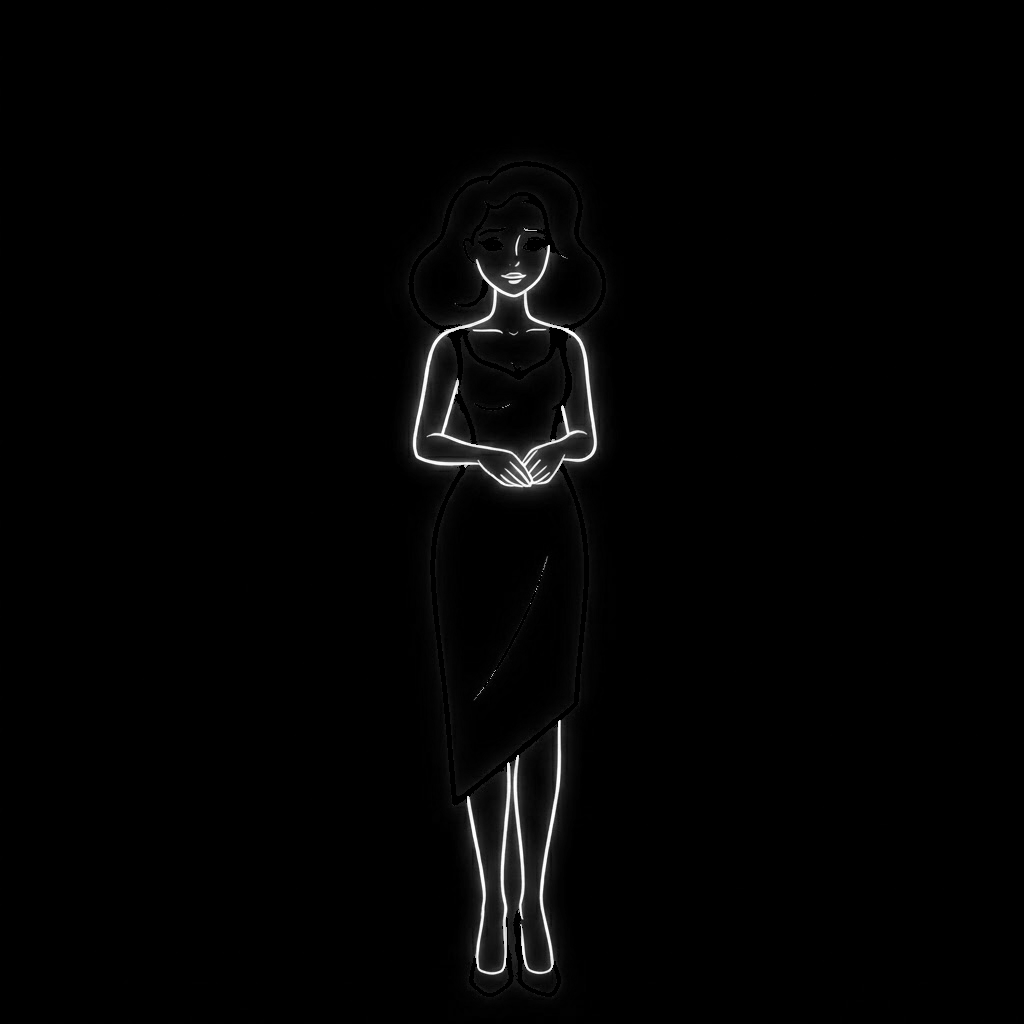
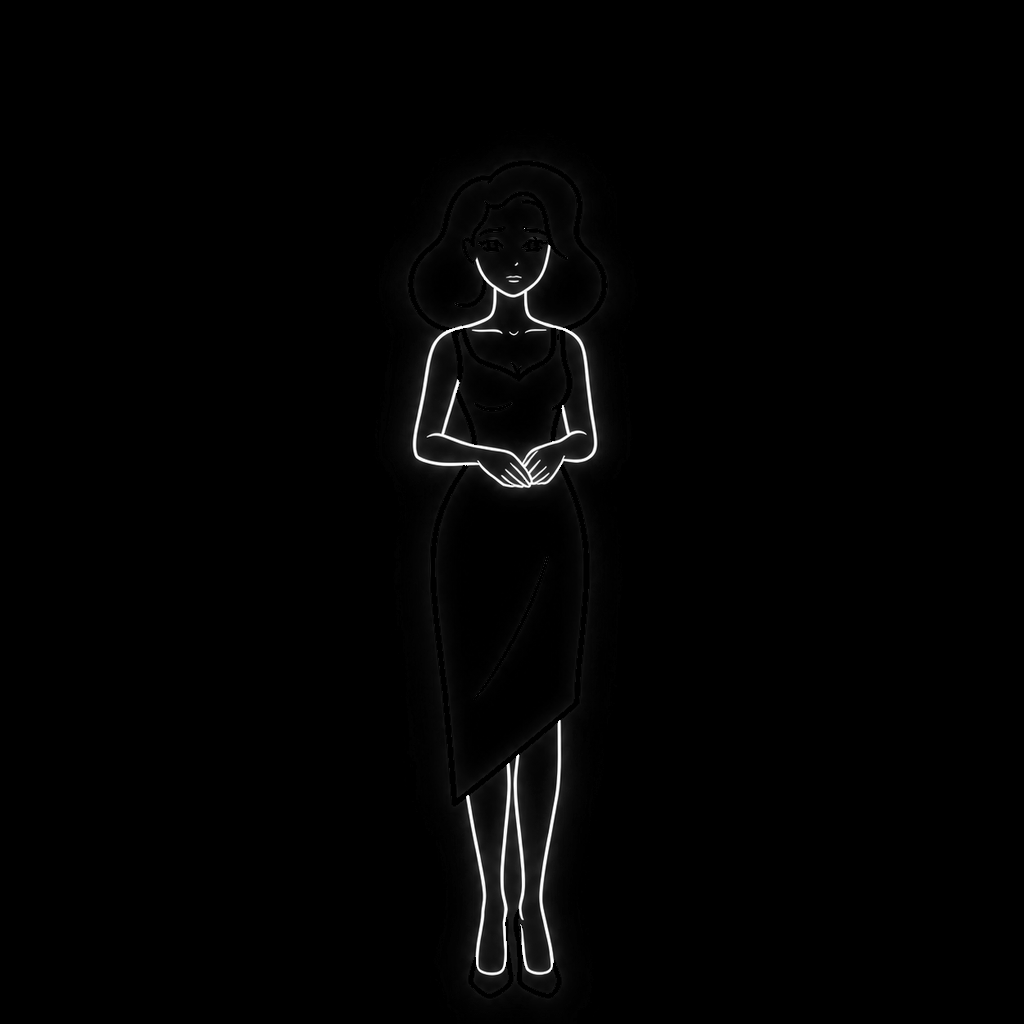
减轻室内求助道具分量并重绘夜莺正面神情

Changed region(s): [[0.4062, 0.2188, 0.5938, 0.5], [0.4688, 0.8438, 0.5312, 0.9062], [0.5625, 0.3438, 0.5938, 0.375]]

diff --git a/角色库/夜莺/形象/姿势/室内求助/README.md b/角色库/夜莺/形象/姿势/室内求助/README.md
@@ -1,0 +1,7 @@
+# 室内求助：正面神情修订
+
+使用内置 OpenAI 生图服务，以正式 `夜莺_恳求.png` 为编辑参考，保留全身、手势、服装和脚底基线，减少瞪眼、尖眉与夸张嘴部线条，表现安静的担忧。
+
+`恳求-openai-原图.png` 保存生成原图；`恳求-接入.png` 将整张画布等比例缩到统一的 1024×1024，不裁紧或单独放大人物。提示词见 `提示词.txt`。
+
+正式资源保持原名称与 GUID，线稿、点缀、骨架及遮挡通过现有 portrait-neon 工具同步重建；制作基准指向当前接入图。室内求助的布景改为小手包挂架、雨伞靠墙落地。
